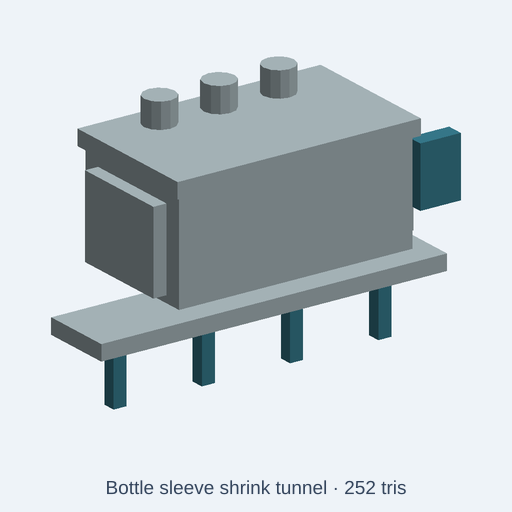
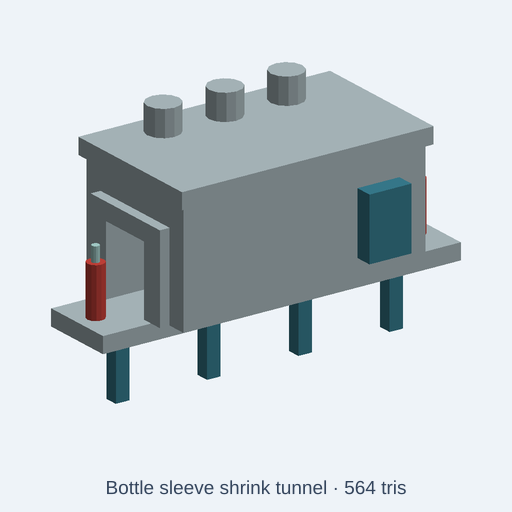
fix(catalog): open the sleeve shrink tunnel's bottle passage
The sleeve shrink tunnel's description promises bottle openings, but
both ends were solid stainless plates ("opening-front/back"), so the
preview showed a closed box. The shell also floated 115 mm above the
conveyor bed, and the temperature panel hung in the air beside the bed.

- Cut a 220 x 280 mm passage through the shell along the conveyor.
  The shell now sits on the bed.
- Replace the end plates with stainless collar frames around the
  passage (opening-collar-infeed/outfeed).
- Add three sleeved bottles (infeed, in tunnel, outfeed) with two new
  knobs: sleeveFilm (#c8423a) and petBottle (#a9d3cf). Both presets
  set them.
- Mount the temperature panel on the operator-side wall.
Triangles: 252 -> 564 (budget 2,200).

The new test checks the knobs, that the shell sits on the bed, that
the collars and shell are cut by the passage, and the GLB colours. It
fails on the old source and passes after the fix.
tests/integration/catalog: 116/116 files, 184/184 tests pass. ESLint
is clean. Quality gate: 2,398/2,402, unchanged. The index diff touches
only this asset's entry. A before/after MP4 was inspected locally.

Preview audit ledger (beverage-bottling-line; no open issue or PR
targets these assets):
- sleeve-shrink-tunnel: openings rendered as solid stainless plates;
  shell floating -> fixed.
- fill-level-inspection-lamp: the light panel floats 65 mm above the
  supports, the supports stop 20 mm above the base, and the guide rails
  touch nothing. Geometry defect, noted.
[…]

Changed region(s): [[0.0938, 0.0938, 0.9062, 0.8125], [0.6562, 0.9375, 0.75, 0.9688]]

diff --git a/catalog/kits/beverage-bottling-line/sleeve-shrink-tunnel.kcad.ts b/catalog/kits/beverage-bottling-line/sleeve-shrink-tunnel.kcad.ts
@@ -1,11 +1,13 @@
 // SPDX-License-Identifier: CC0-1.0
 // quality-promotion: beverage-bottling-line 2026-11-05
 // Bottle sleeve shrink tunnel: heated tunnel with insulated hood, bottle openings, ventilation fan, and guarded conveyor.
+// What makes it a shrink tunnel: the conveyor runs straight through an open passage in
+// the heated shell, so sleeved bottles enter at one end and leave shrunk at the other.
 meta({
   name: "sleeve-shrink-tunnel",
   license: 'CC0-1.0',
   title: "Bottle sleeve shrink tunnel",
-  description: "Heated tunnel with insulated hood, bottle openings, ventilation fan, and guarded conveyor. Knobs: overall scale and color controls for stainless steel and powder-coated steel.",
+  description: "Heated tunnel with insulated hood, bottle openings, ventilation fan, and guarded conveyor. Knobs: overall scale and color controls for stainless steel, powder-coated steel, the printed shrink sleeve and the PET bottle.",
   tags: ['beverage bottling', 'packaging line', 'food manufacturing', 'low poly', 'CC0'],
   kit: 'beverage-bottling-line',
   category: 'structure',
@@ -17,15 +19,21 @@ meta({
 const scale = param('scale', 1, { label: 'Overall scale', min: 0.65, max: 1.3, step: 0.05 });
 const stainlessSteel = param('stainlessSteel', '#aebdc1', { label: 'Stainless steel' });
 const powderCoat = param('powderCoat', '#397e91', { label: 'Powder-coated steel' });
+const sleeveFilm = param('sleeveFilm', '#c8423a', { label: 'Printed shrink sleeve' });
+const petBottle = param('petBottle', '#a9d3cf', { label: 'PET bottle' });
 
 presets({
   sanitaryLine: {
     stainlessSteel: '#d2dfe1',
     powderCoat: '#4b95a4',
+    sleeveFilm: '#2f6fb3',
+    petBottle: '#c4e3df',
   },
   legacyPlant: {
     stainlessSteel: '#858f91',
     powderCoat: '#315b70',
+    sleeveFilm: '#d9a13a',
+    petBottle: '#93b8a9',
   },
 });
 const boxPart = (x:number,y:number,z:number,w:number,d:number,h:number) => box(w,d,h,true).translate(x,y,z+h/2).scale(scale);
@@ -37,18 +45,27 @@ const finishPart = (name: string, shape: ReturnType<typeof boxPart>) => {
   if (/base|leg|foot|frame|support|stand|control|housing|cabinet|motor|drive|beam|panel|hood|skid|mount|platform|guard|rail|post|lift|jacket/i.test(component)) return shape.color(powderCoat);
   return shape.color(stainlessSteel);
 };
+// The passage the bottles ride through: 220 mm wide, 280 mm clear above the bed.
+const passage = () => boxPart(0, 0, 315, 1200, 220, 280);
+const bottle = (name: string, x: number) => {
+  p.part(`${name}-sleeve`, cylinderPart(x, 0, 315, 200, 34, 12).color(sleeveFilm));
+  p.part(`${name}-neck`, cylinderPart(x, 0, 515, 60, 15, 8).color(petBottle));
+};
 p.part("conveyor-bed", finishPart("conveyor-bed", boxPart(0, 0, 250, 1450, 300, 65)));
-p.part("tunnel-shell", finishPart("tunnel-shell", boxPart(0, 0, 430, 980, 560, 420)));
-p.part("roof", finishPart("roof", boxPart(0, 0, 850, 1020, 600, 65)));
-p.part("opening-front", finishPart("opening-front", boxPart(-500, 0, 460, 90, 410, 340)));
-p.part("opening-back", finishPart("opening-back", boxPart(500, 0, 460, 90, 410, 340)));
-p.part("vent-0", finishPart("vent-0", cylinderPart(-250, 180, 915, 105, 65, 10)));
-p.part("vent-1", finishPart("vent-1", cylinderPart(0, 180, 915, 105, 65, 10)));
-p.part("vent-2", finishPart("vent-2", cylinderPart(250, 180, 915, 105, 65, 10)));
+p.part("tunnel-shell", finishPart("tunnel-shell", boxPart(0, 0, 315, 980, 560, 450).subtract(passage())));
+p.part("roof", finishPart("roof", boxPart(0, 0, 765, 1020, 600, 65)));
+p.part("opening-collar-infeed", finishPart("opening-collar-infeed", boxPart(-510, 0, 315, 40, 400, 350).subtract(passage())));
+p.part("opening-collar-outfeed", finishPart("opening-collar-outfeed", boxPart(510, 0, 315, 40, 400, 350).subtract(passage())));
+p.part("vent-0", finishPart("vent-0", cylinderPart(-250, 180, 830, 105, 65, 10)));
+p.part("vent-1", finishPart("vent-1", cylinderPart(0, 180, 830, 105, 65, 10)));
+p.part("vent-2", finishPart("vent-2", cylinderPart(250, 180, 830, 105, 65, 10)));
 p.part("leg-0", finishPart("leg-0", boxPart(-560, 0, 0, 55, 55, 250)));
 p.part("leg-1", finishPart("leg-1", boxPart(-190, 0, 0, 55, 55, 250)));
 p.part("leg-2", finishPart("leg-2", boxPart(180, 0, 0, 55, 55, 250)));
 p.part("leg-3", finishPart("leg-3", boxPart(550, 0, 0, 55, 55, 250)));
-p.part("temperature-panel", finishPart("temperature-panel", boxPart(610, -240, 560, 170, 70, 250)));
+p.part("temperature-panel", finishPart("temperature-panel", boxPart(300, -315, 420, 170, 70, 250)));
+bottle("bottle-infeed", -650);
+bottle("bottle-in-tunnel", -400);
+bottle("bottle-outfeed", 650);
 
 return p.model();

diff --git a/tests/integration/catalog/sleeveShrinkTunnelPassage.test.ts b/tests/integration/catalog/sleeveShrinkTunnelPassage.test.ts
@@ -1,0 +1,75 @@
+// SPDX-License-Identifier: MIT
+// Copyright (c) 2026 Andrii Shylenko and kernelCAD contributors
+
+import { resolve } from 'node:path';
+import { NodeIO } from '@gltf-transform/core';
+import { beforeAll, describe, expect, it } from 'vitest';
+import { buildCatalogAssetWithGlb } from '../../../src/agent/catalog/buildCatalog';
+import { initOcct } from '../../../src/kernel/backends/occt/occtBackend';
+
+const repoRoot = resolve(import.meta.dirname, '../../..');
+const source = 'catalog/kits/beverage-bottling-line/sleeve-shrink-tunnel.kcad.ts';
+
+beforeAll(async () => {
+  await initOcct();
+}, 120_000);
+
+describe('beverage-bottling-line/sleeve-shrink-tunnel passage', () => {
+  it('opens a bottle passage through the shell and carries sleeved bottles on the bed', async () => {
+    const { asset, glb } = await buildCatalogAssetWithGlb(repoRoot, source);
+
+    expect(asset.stats.triangles).toBeLessThanOrEqual(asset.triangleBudget);
+    expect(asset.params.filter((param) => param.type === 'color').map((param) => param.name)).toEqual([
+      'stainlessSteel', 'powderCoat', 'sleeveFilm', 'petBottle',
+    ]);
+    expect(Object.keys(asset.presets)).toEqual(['sanitaryLine', 'legacyPlant']);
+
+    const document = await new NodeIO().readBinary(glb);
+    const nodes = document.getRoot().listNodes();
+    const nodeFor = (name: string) => {
+      const node = nodes.find((candidate) => candidate.getName() === name);
+      expect(node, name).toBeDefined();
+      return node!;
+    };
+    // Vertices are in model millimetres, Z up.
+    const verticesFor = (name: string) => nodeFor(name).getMesh()!.listPrimitives().flatMap((primitive) => {
+      const positions = primitive.getAttribute('POSITION')!;
+      return Array.from({ length: positions.getCount() }, (_, index) =>
+        positions.getElement(index, []));
+    });
+    const colorsFor = (name: string) => nodeFor(name).getMesh()!.listPrimitives().flatMap((primitive) => {
+      const vertexColors = primitive.getAttribute('COLOR_0');
+      if (vertexColors !== null) {
+        return Array.from({ length: vertexColors.getCount() }, (_, index) =>
+          vertexColors.getElement(index, []).slice(0, 3).map((channel) =>
+            channel <= 0.0031308 ? 12.92 * channel : 1.055 * channel ** (1 / 2.4) - 0.055));
+      }
+      const material = primitive.getMaterial();
+      return material === null ? [] : [material.getBaseColorFactor().slice(0, 3)];
+    });
+    const matches = (hex: string) => {
+      const expected = [1, 3, 5].map((shift) => parseInt(hex.slice(shift, shift + 2), 16) / 255);
+      return (color: number[]) => expected.every((channel, index) => Math.abs(channel - color[index]!) < 0.015);
+    };
+
+    // The shell sits on the conveyor bed instead of floating above it.
+    const bedTop = Math.max(...verticesFor('conveyor-bed').map((vertex) => vertex[2]!));
+    const shellBottom = Math.min(...verticesFor('tunnel-shell').map((vertex) => vertex[2]!));
+    expect(Math.abs(shellBottom - bedTop)).toBeLessThan(1);
+
+    // Each end collar is a frame: it has vertices on the 220 mm passage edge, not a solid plate.
+    for (const name of ['opening-collar-infeed', 'opening-collar-outfeed', 'tunnel-shell']) {
+      const lateral = verticesFor(name).map((vertex) => Math.abs(vertex[1]!));
+      expect(lateral.some((value) => Math.abs(value - 110) < 1), `${name} should be cut by the passage`).toBe(true);
+      const colors = colorsFor(name);
+      expect(colors.length, name).toBeGreaterThan(0);
+      expect(colors.every(matches('#aebdc1')), `${name} should be stainless steel`).toBe(true);
+    }
+
+    for (const name of ['bottle-infeed-sleeve', 'bottle-in-tunnel-sleeve', 'bottle-outfeed-sleeve']) {
+      const colors = colorsFor(name);
+      expect(colors.length, name).toBeGreaterThan(0);
+      expect(colors.every(matches('#c8423a')), `${name} should be printed sleeve film`).toBe(true);
+    }
+  }, 120_000);
+});
